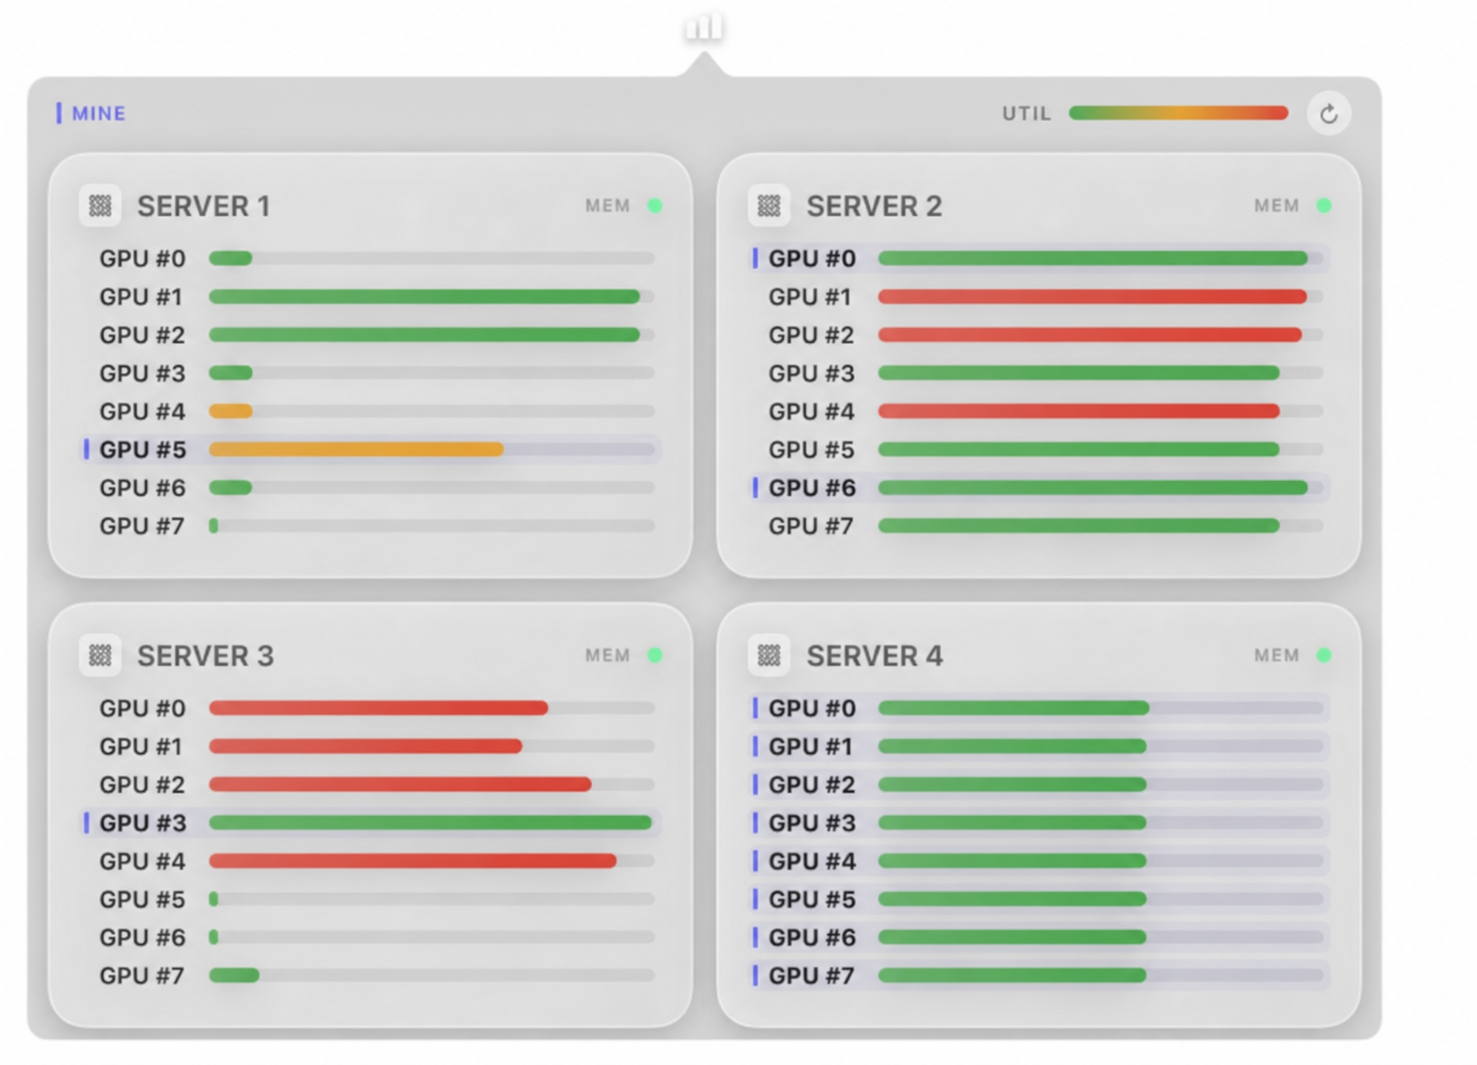
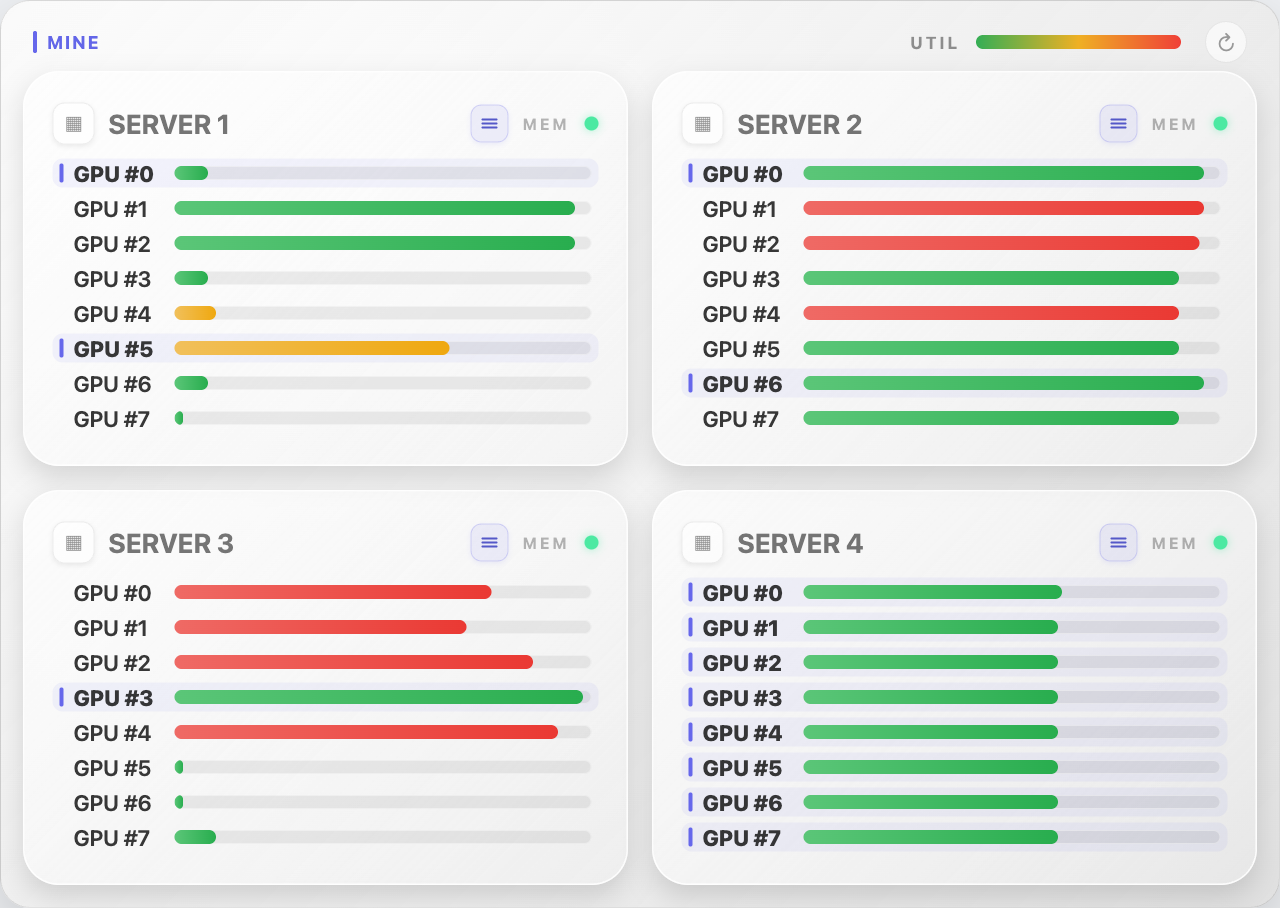
docs: refresh dashboard and detail screenshots

diff --git a/README.zh-CN.md b/README.zh-CN.md
@@ -18,6 +18,23 @@ GPU Pulse 是一款简洁的原生 macOS 菜单栏应用，用于查看多台服
 `~/.ssh/config` 中明确配置的 `Host`，供用户选择需要监控的服务器。面板名称
 取第一个点号前的部分，例如 `zxcpu1.cse.example.edu` 显示为 `ZXCPU1`。
 
+## GPU 进程详情
+
+![GPU Pulse 服务器详情中的隐私安全 GPU 进程示例](assets/gpu-pulse-detail.png)
+
+点击服务器卡片右上角、`MEM` 旁边的蓝紫色**三横线按钮**，即可打开该服务器
+最近一次刷新的进程详情；这个操作不会额外建立 SSH 连接。
+
+- **GPU** 是设备编号（`#0` 到 `#7`）。同一张 GPU 有多个进程时，编号只在
+  第一行显示一次，其余进程放在同一个淡色区块中。
+- **USER** 是远程系统中拥有该进程的用户；蓝紫色短竖线表示当前 SSH 登录用户。
+- **PROCESS** 是远程进程表报告的可执行程序。
+- **TIME** 是进程已经运行的时长，不是启动时间点。
+- **MEM** 是该进程使用的 GPU 显存。数字的绿色、黄色或红色跟随所属 GPU 的
+  当前利用率颜色，并不是根据这条进程的显存数值判断。
+
+界面刻意不显示 PID。截图中的服务器、用户名和进程均为通用演示数据。
+
 ## 面板信息
 
 - 四台服务器以紧凑的 2×2 网格显示。
@@ -26,9 +43,8 @@ GPU Pulse 是一款简洁的原生 macOS 菜单栏应用，用于查看多台服
 - 每一行代表一张 GPU：进度条长度表示显存占用，绿色、黄色和红色表示 GPU
   利用率。
 - `MINE` 用蓝紫色标出属于当前 SSH 登录用户的 GPU 进程。
-- 每张服务器卡片右上角有一个 **Detail**。它会用紧凑的 nvitop 风格表格汇总
-  该服务器全部 GPU，显示 GPU 编号、用户名、进程名称、运行时间和 GPU 显存，
-  不显示 PID。
+- 每张服务器卡片右上角有一个蓝紫色三横线详情按钮，用紧凑的 nvitop 风格表格
+  汇总该服务器全部 GPU。
 - 同一张 GPU 的多个进程共用一个紧凑淡色区块，GPU 编号只在第一行显示一次；
   固定宽度的 `TIME` 和 `MEM` 列在滚动时仍保持对齐。
 - 每条进程的 `MEM` 数字会使用对应 GPU 利用率的绿色、黄色或红色。
@@ -60,8 +76,7 @@ GPU Pulse 会读取本机现有 `~/.ssh/config` 中明确配置的 SSH 别名，
 
 - **打开/收起：** 左键点击菜单栏中的柱状图图标。
 - **立即刷新：** 点击面板右上角的圆形刷新按钮。
-- **GPU 进程详情：** 点击服务器卡片右上角的 **Detail**。详情直接使用最近一次
-  刷新已取得的数据，不会额外建立 SSH 连接。
+- **GPU 进程详情：** 点击服务器卡片右上角、`MEM` 旁边的蓝紫色三横线按钮。
 - **选择服务器：** 右键点击菜单栏图标并选择 **Servers…**，可勾选任意数量；
   选择结果只保存在本机。
 - **刷新频率：** 可选择 5、10、30 或 60 秒，默认是 10 秒。

diff --git a/README.md b/README.md
@@ -20,6 +20,28 @@ lists the explicit `Host` entries from `~/.ssh/config` and lets you choose the
 servers to monitor. Dashboard labels use the part before the first dot, so
 `zxcpu1.cse.example.edu` appears as `ZXCPU1`.
 
+## GPU Process Details
+
+![GPU Pulse server detail showing privacy-safe example GPU processes](assets/gpu-pulse-detail.png)
+
+Click the small indigo **three-line button** beside `MEM` in a server card
+header. It opens the latest process snapshot for that server without starting
+another SSH connection.
+
+- **GPU** is the device index (`#0` through `#7`). When one GPU has multiple
+  processes, its index appears only on the first row and the rows share one
+  tinted group.
+- **USER** is the remote operating-system user that owns the process. The slim
+  indigo rail marks the current SSH login user.
+- **PROCESS** is the executable reported by the remote process table.
+- **TIME** is elapsed process runtime, not a start timestamp.
+- **MEM** is GPU memory used by that process. Its green/yellow/red text follows
+  the parent GPU’s current utilization color; it does not rate the memory value
+  itself.
+
+PID is intentionally not displayed. The screenshot uses generic server,
+username, and process data.
+
 ## What It Shows
 
 - Four servers are shown in a compact 2×2 grid.
@@ -29,9 +51,8 @@ servers to monitor. Dashboard labels use the part before the first dot, so
 - Each row represents one GPU. Bar length is memory usage; green, yellow, and
   red represent GPU utilization.
 - `MINE` highlights GPUs running processes owned by your SSH login user.
-- Each server card has one **Detail** action. It opens a compact nvitop-style
-  table covering all GPUs on that server, with GPU index, username, process
-  name, elapsed time, and GPU memory. PID is not displayed.
+- Each server card has one indigo three-line detail button. It opens a compact
+  nvitop-style table covering all GPUs on that server.
 - Multiple processes on the same GPU share a compact tinted group, with the GPU
   index shown only once and fixed-width `TIME` and `MEM` columns.
 - Process `MEM` values use the same green/yellow/red utilization color as their
@@ -66,8 +87,8 @@ Remote hosts must provide `nvidia-smi` and key-based SSH access.
 
 - **Open/close:** left-click the menu-bar chart icon.
 - **Refresh now:** click the circular arrow in the upper-right corner.
-- **GPU process details:** click **Detail** in a server card header. Opening it
-  uses the latest refresh snapshot and does not create another SSH connection.
+- **GPU process details:** click the indigo three-line button beside `MEM` in a
+  server card header.
 - **Servers:** right-click the menu-bar icon, choose **Servers…**, then select
   any number of hosts. The selection is stored only on this Mac.
 - **Refresh frequency:** choose 5, 10, 30, or 60 seconds. The default is 10

diff --git a/app/README.md b/app/README.md
@@ -17,11 +17,11 @@ configured SSH aliases.
 - Click the menu-bar item to show or hide the monitor.
 - Use the refresh button beside the UTIL legend to fetch the latest GPU data immediately.
 - GPUs used by the current SSH login user are marked with a slim indigo rail, bold GPU label, and a faint indigo row background; the compact legend reads `MINE`.
-- Each server card has one compact **Detail** action. Its nvitop-style panel
-  combines every active process on that server and shows GPU index, username,
-  process name, elapsed time, and GPU memory without exposing PID. Process
-  details are collected in the existing refresh query, so opening the panel
-  does not create another SSH connection.
+- Each server card has one compact indigo three-line detail button beside
+  `MEM`. Its nvitop-style panel combines every active process on that server
+  and shows GPU index, username, process name, elapsed time, and GPU memory
+  without exposing PID. Process details are collected in the existing refresh
+  query, so opening the panel does not create another SSH connection.
 - Processes from the same GPU share a compact tinted group; the GPU index is
   printed only on its first row. Fixed-width monospaced `TIME` and `MEM`
   columns remain aligned even when the panel scrolls.
